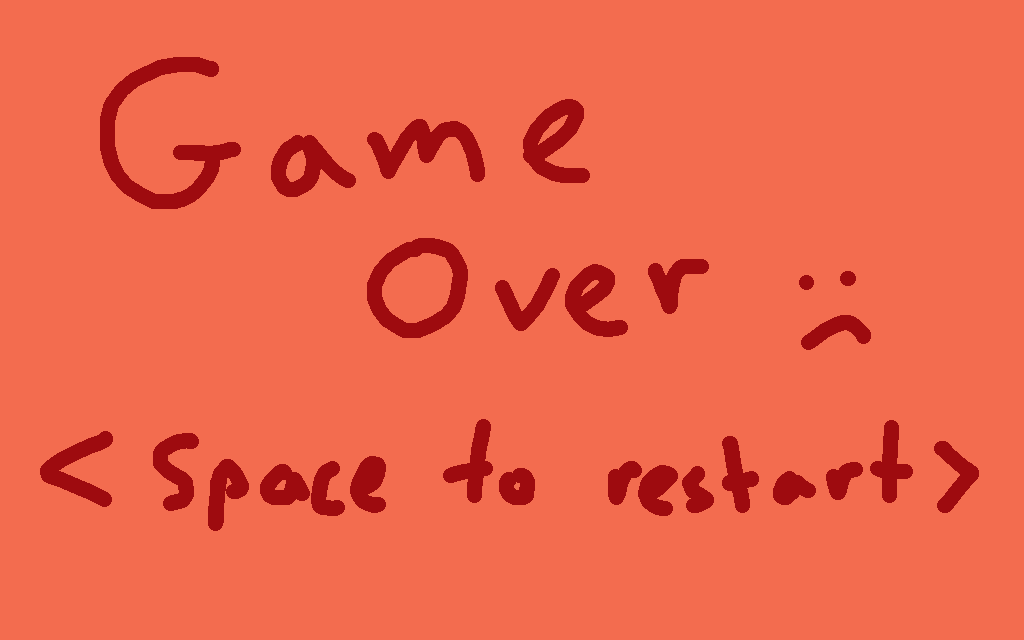
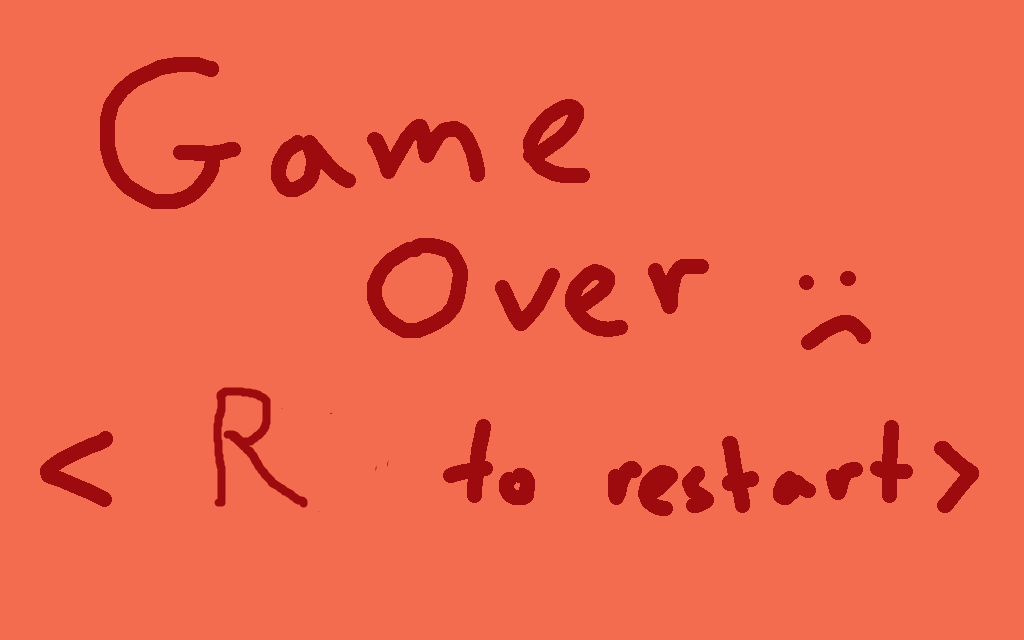
final push

Changed region(s): [[0.125, 0.5938, 0.375, 0.8438]]

diff --git a/js/app.js b/js/app.js
@@ -103,6 +103,12 @@ function update() {
     }  else {
   	  bomb.x = -1000;
     }
+	if(boxes.length > maxBoxCount) {
+		level = "end";
+	}
+	if (fuel.fuelPercent < 0) {
+		level = "end";
+	}
     fuelStation();
     boxCollision(forkLift);
     removeBoxes();
@@ -110,8 +116,9 @@ function update() {
   }
   if (level == "end") {
     ctx.drawImage(end,0,0,1024,640);
-    if (pressedKeys.includes(32)) {
-      level = "game";
+    if (pressedKeys.includes(82)) {
+      level = "start";
+	 location.reload();
     }
   }
   requestAnimationFrame(update);
